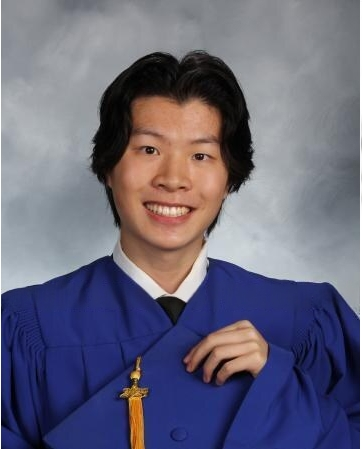
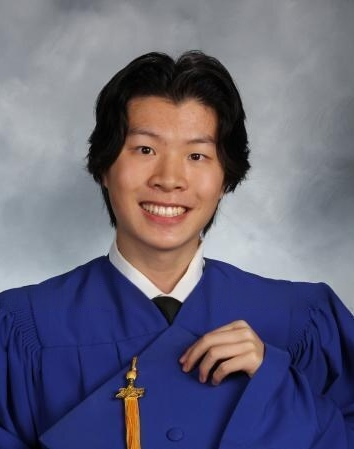
final touches, added picture, all finished!!

diff --git a/styles.css b/styles.css
@@ -84,10 +84,12 @@ input:focus, textarea:focus {
 
 .click:hover {
     transform: scale(1.1);
+    filter: brightness(110%)
 }
 
 .click:active { /* when clicked, size decreases*/
     transform: scale(0.8);
+    
 }
 
 .title {
@@ -223,7 +225,6 @@ LANDING PAGE
     display: flex;
     align-items: center;
     justify-content: center;
-
 }
 
 .header__me {
@@ -232,18 +233,17 @@ LANDING PAGE
     justify-content: center;
     width: 100%;
     max-width: 450px;
-    overflow: visible;
-    
 }
 
 .header__me--border {
     width: 100%;
     border-radius: 100%;
-    border: 5px solid transparent;
-    background: linear-gradient(orange, violet);
+
+    background: linear-gradient(115deg,
+    rgb(245, 101, 101) 0%,
+    rgb(254, 178, 178) 100%);
     background-clip: padding-box;
-    padding: 10px;
-    
+    padding: 5px;
 }
 
 .header__para {

diff --git a/index.html b/index.html
@@ -71,8 +71,11 @@
             </div>
             <div class="header__content--me">
                 
-                <figure class="header__me">
+                <figure class="header__me click">
+                    <a href="https://www.linkedin.com/in/kevin-zhang-31403129b/" target="_blank">
+
                         <img src="./assets/me-transformed.png" class="header__me--border" alt="">
+                    </a>
                     </figure>
             </div>
         </header>
